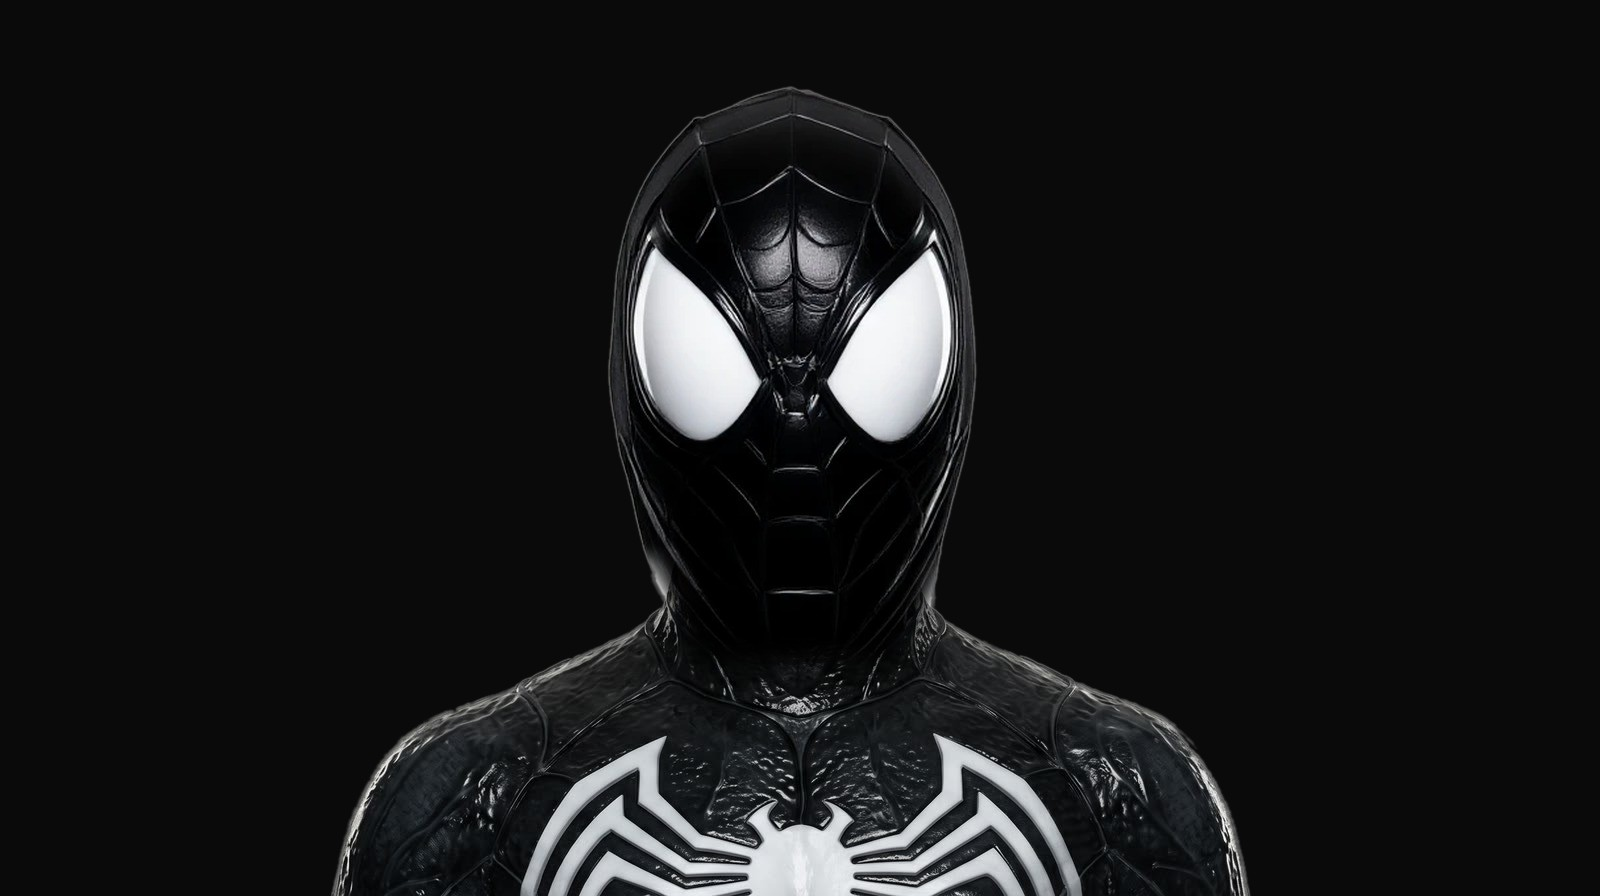
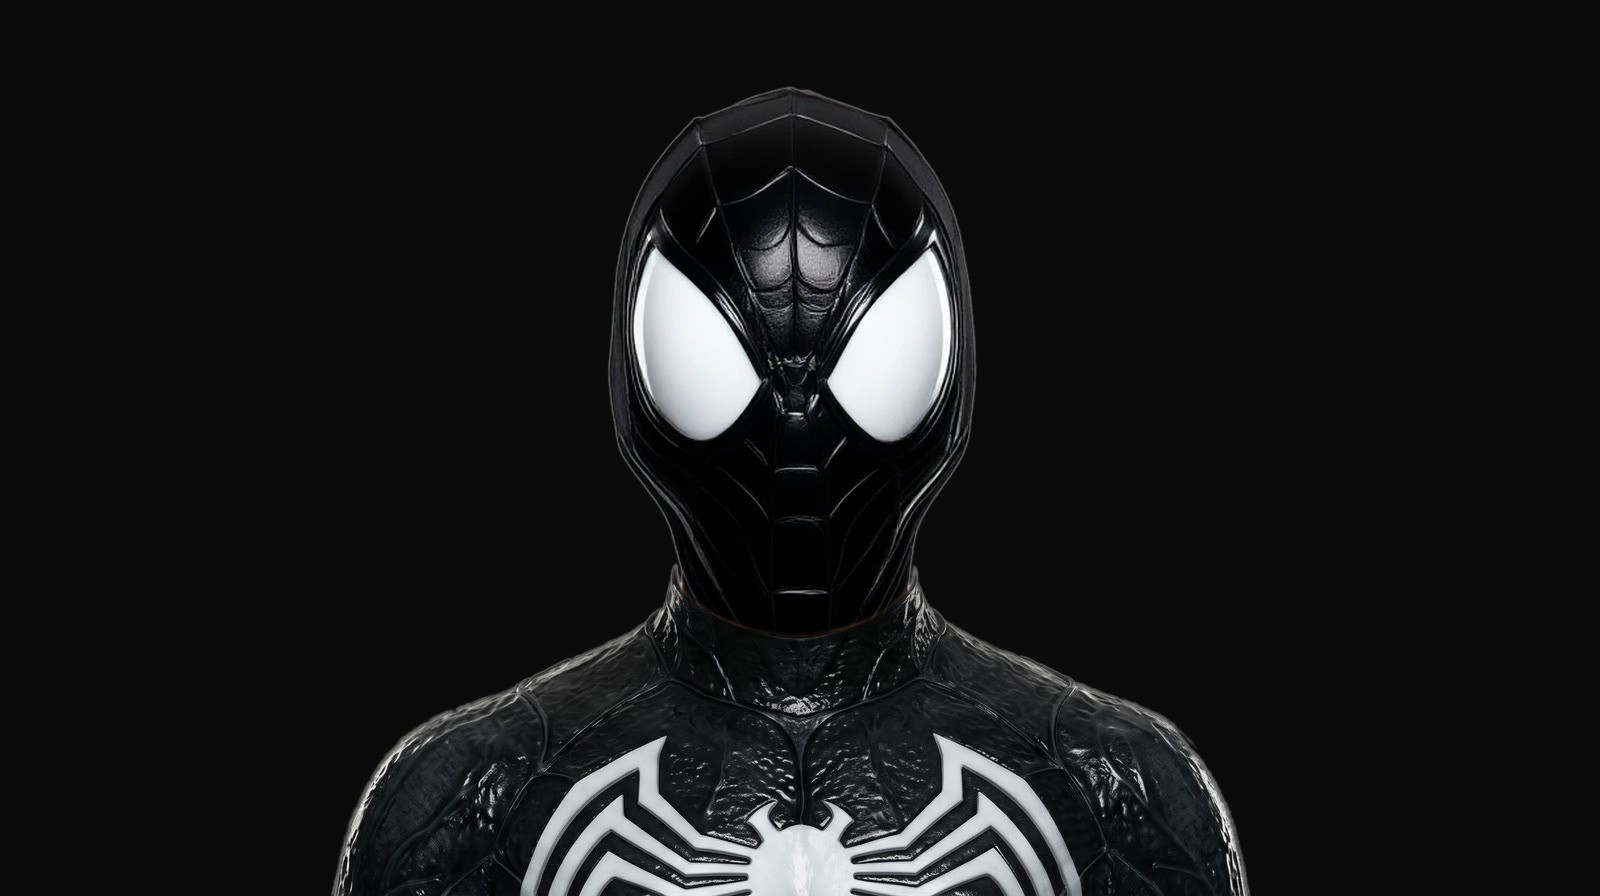
Hero neck follows the collar; sturdier easter egg keys
head-swap.py now stretches the masked neck to the real neck's width and seams it along the
face shot's collar, so no white notches or narrow neck column. Easter eggs listen in the
capture phase, survive odd key events and silent audio failures, and accept spidez (QWERTZ).

Changed region(s): [[0.5312, 0.5, 0.625, 0.7188], [0.375, 0.5, 0.4375, 0.6875]]

diff --git a/src/sound.ts b/src/sound.ts
@@ -7,14 +7,19 @@ let ctx: AudioContext | null = null
 let master: GainNode | null = null
 
 function audio() {
-  if (!ctx) {
-    ctx = new AudioContext()
-    master = ctx.createGain()
-    master.gain.value = 0.35
-    master.connect(ctx.destination)
+  try {
+    if (!ctx) {
+      ctx = new AudioContext()
+      master = ctx.createGain()
+      master.gain.value = 0.35
+      master.connect(ctx.destination)
+    }
+    if (ctx.state === 'suspended') void ctx.resume()
+    return { c: ctx, out: master! }
+  } catch {
+    // No audio device, or the browser refuses: the site just stays silent instead of breaking the click.
+    return null
   }
-  if (ctx.state === 'suspended') void ctx.resume()
-  return { c: ctx, out: master! }
 }
 
 // ── mute switch (remembered) ────────────────────────────────────────────────
@@ -70,7 +75,9 @@ function envelope(c: AudioContext, t: number, peak: number, attack: number, rele
 /** "Thwip!": a hiss of web fluid swept down through a band-pass, plus a quick zip. */
 export function playThwip() {
   if (muted) return
-  const { c, out } = audio()
+  const a = audio()
+  if (!a) return
+  const { c, out } = a
   const t = c.currentTime
 
   const hiss = noise(c, 0.25)
@@ -95,7 +102,9 @@ export function playThwip() {
 /** The symbiote: a low growl that sinks when it takes over and rises when it lets go. */
 export function playSymbiote(takingOver: boolean) {
   if (muted) return
-  const { c, out } = audio()
+  const a = audio()
+  if (!a) return
+  const { c, out } = a
   const t = c.currentTime
 
   const low = c.createBiquadFilter()
@@ -128,7 +137,9 @@ export function playSymbiote(takingOver: boolean) {
 /** A whoosh that rises and falls, for Spider-Man swinging past. */
 export function playSwoosh(seconds = 2.2) {
   if (muted) return
-  const { c, out } = audio()
+  const a = audio()
+  if (!a) return
+  const { c, out } = a
   const t = c.currentTime
   const air = noise(c, seconds)
   const band = c.createBiquadFilter()

diff --git a/src/components/EasterEggs.tsx b/src/components/EasterEggs.tsx
@@ -25,9 +25,12 @@ export function EasterEggs() {
 
   useEffect(() => {
     const onKey = (e: KeyboardEvent) => {
-      if ((e.target as HTMLElement).closest('input, textarea, select, [contenteditable]')) return
+      if (e.target instanceof Element && e.target.closest('input, textarea, select, [contenteditable]')) return
+      if (e.ctrlKey || e.metaKey) return
       const s = live.current
-      const key = e.key.length === 1 ? e.key.toLowerCase() : e.key
+      // Some keyboards/IMEs report letters as "Unidentified" or "Process"; the physical key still names it.
+      const fromCode = /^Key[A-Z]$/.test(e.code) ? e.code.slice(3).toLowerCase() : e.key
+      const key = e.key.length === 1 ? e.key.toLowerCase() : e.key === 'Unidentified' || e.key === 'Process' ? fromCode : e.key
       s.keys = [...s.keys, key].slice(-KONAMI.length)
       const swingNow = () => {
         setSwing((n) => n + 1)
@@ -40,7 +43,8 @@ export function EasterEggs() {
       }
       if (key.length === 1) {
         s.typed = (s.typed + key).slice(-6)
-        if (s.typed.endsWith('spidey')) {
+        // "spidez": a Czech QWERTZ layout on a keyboard printed QWERTY swaps Y and Z.
+        if (s.typed.endsWith('spidey') || s.typed.endsWith('spidez')) {
           s.typed = ''
           swingNow()
         }
@@ -52,8 +56,9 @@ export function EasterEggs() {
         }
       }
     }
-    window.addEventListener('keydown', onKey)
-    return () => window.removeEventListener('keydown', onKey)
+    // Capture phase: nothing on the page (or a player/widget script) can swallow the keys first.
+    window.addEventListener('keydown', onKey, true)
+    return () => window.removeEventListener('keydown', onKey, true)
   }, [])
 
   return (

diff --git a/scripts/head-swap.py b/scripts/head-swap.py
@@ -1,8 +1,13 @@
 """Build the hero's masked layer from the face shot's body plus only the head of the masked shot.
 
 Two AI renders never agree on the suit: the masked one had a longer neck and lower shoulders, so the
-body jumped when the cursor peeled the mask off. Taking everything below the chin from the face shot
-makes the two layers identical except for the head, like the original site's pair.
+body jumped when the cursor peeled the mask off. Taking the whole suit from the face shot makes the
+two layers identical except for the head, like the original site's pair.
+
+The seam follows the face shot's collar: everything above the collar line comes from the masked shot,
+everything from the collar down from the face shot. The masked neck is first stretched (or squeezed)
+sideways to the real neck's width, so it fills the collar opening exactly instead of leaving white
+notches beside it or overhanging it.
 
     python scripts/head-swap.py FACE MASK_SRC OUT --scale 1.0 --dx -16 --dy 56
 
@@ -23,10 +28,10 @@ ap.add_argument("out")
 ap.add_argument("--scale", type=float, default=1.0)
 ap.add_argument("--dx", type=int, default=0)
 ap.add_argument("--dy", type=int, default=0)
-ap.add_argument("--head-bottom", type=int, default=560, help="above this row the mask is used across the full width")
-ap.add_argument("--neck-bottom", type=int, default=660, help="the mask's neck column ends here, inside the face shot's collar")
-ap.add_argument("--neck", type=int, nargs=2, default=[650, 950], help="x range of the neck column at --head-bottom")
-ap.add_argument("--neck-end", type=int, nargs=2, default=[705, 895], help="x range at --neck-bottom (tapers so the mask's shoulder flare isn't clipped into bumps)")
+ap.add_argument("--neck-row", type=int, default=552, help="a row through the neck just above the collar, where both necks are measured")
+ap.add_argument("--warp-from", type=int, default=440, help="the neck warp fades in from this row (the head above stays untouched)")
+ap.add_argument("--chest-row", type=int, default=660, help="a row that is suit across the neck in the face shot; the collar is found by scanning up from it")
+ap.add_argument("--debug", help="also write the blend weight here")
 args = ap.parse_args()
 
 W, H = 1600, 896
@@ -34,24 +39,88 @@ face = Image.open(args.face).convert("RGB").resize((W, H), Image.LANCZOS)
 src = Image.open(args.mask_src).convert("RGB")
 w = round(W * args.scale)
 h = round(src.height * W / src.width * args.scale)
-mask = Image.new("RGB", (W, H), src.getpixel((5, 5)))
-mask.paste(src.resize((w, h), Image.LANCZOS), (args.dx, args.dy))
+canvas = Image.new("RGB", (W, H), src.getpixel((5, 5)))
+canvas.paste(src.resize((w, h), Image.LANCZOS), (args.dx, args.dy))
 
 # The renders' "white" studio backgrounds differ slightly; match them so the seam doesn't show.
-mask_bg = np.asarray(mask, np.float32)[5:40, 5:40].reshape(-1, 3).mean(0)
-face_bg = np.asarray(face, np.float32)[5:40, 5:40].reshape(-1, 3).mean(0)
-mask = Image.fromarray(np.clip(np.asarray(mask, np.float32) * (face_bg / mask_bg), 0, 255).astype(np.uint8))
+mask = np.asarray(canvas, np.float32)
+face = np.asarray(face, np.float32)
+mask = np.clip(mask * (face[5:40, 5:40].reshape(-1, 3).mean(0) / mask[5:40, 5:40].reshape(-1, 3).mean(0)), 0, 255)
 
-# 1 = take the masked shot (head, plus a neck column down into the collar), 0 = keep the face shot.
-weight = np.zeros((H, W), np.float32)
-weight[: args.head_bottom] = 1
-for y in range(args.head_bottom, args.neck_bottom):
-    t = (y - args.head_bottom) / (args.neck_bottom - args.head_bottom)
-    left = round(args.neck[0] + (args.neck_end[0] - args.neck[0]) * t)
-    right = round(args.neck[1] + (args.neck_end[1] - args.neck[1]) * t)
-    weight[y, left:right] = 1
-weight = ndimage.gaussian_filter(weight, sigma=10)[..., None]
+bg_colour = face[5:40, 5:40].reshape(-1, 3).mean(0)
 
-out = np.asarray(mask, np.float32) * weight + np.asarray(face, np.float32) * (1 - weight)
+
+def is_bg(img):
+    return np.abs(img - bg_colour).max(-1) < 28
+
+
+def neck_edges(img, row):
+    """Left and right edge of the neck (the non-background run through the canvas centre) around `row`."""
+    lefts, rights = [], []
+    for y in range(row - 6, row + 7):
+        solid = ~is_bg(img[y])
+        c = W // 2
+        l = c
+        while l > 0 and solid[l - 1]:
+            l -= 1
+        r = c
+        while r < W - 1 and solid[r + 1]:
+            r += 1
+        lefts.append(l)
+        rights.append(r)
+    return float(np.median(lefts)), float(np.median(rights))
+
+
+# 1. Stretch the masked neck to the real neck's width. Rows above --warp-from are left alone, then the
+#    warp eases in so the head's lower half widens smoothly instead of kinking.
+mL, mR = neck_edges(mask, args.neck_row)
+fL, fR = neck_edges(face, args.neck_row)
+xs = np.arange(W, dtype=np.float32)
+warped = mask.copy()
+for y in range(args.warp_from, H):
+    t = min(1.0, (y - args.warp_from) / max(1, args.neck_row - 20 - args.warp_from))
+    t = t * t * (3 - 2 * t)
+    dst = [0, fL * t + mL * (1 - t), fR * t + mR * (1 - t), W - 1]
+    src_x = np.interp(xs, dst, [0, mL, mR, W - 1])
+    for c in range(3):
+        warped[y, :, c] = np.interp(src_x, xs, mask[y, :, c])
+mask = warped
+
+# 2. Find the face shot's collar: scan up each column from the chest until the suit gives way to skin
+#    (or background). Going by the green/red ratio holds up in the shadow under the chin too: skin sits
+#    around 0.4-0.75, the red suit below 0.3 and the black suit near 1.
+r, g = face[..., 0], face[..., 1]
+skin = (r > 25) & (g > r * 0.35) & (g < r * 0.8) & ~is_bg(face)
+suit = ~skin & ~is_bg(face)
+collar = np.full(W, args.chest_row)
+for x in range(W):
+    if not suit[args.chest_row, x]:
+        continue
+    y, gap = args.chest_row, 0
+    top = y
+    while y > 0 and gap < 4:
+        y -= 1
+        if suit[y, x]:
+            top, gap = y, 0
+        else:
+            gap += 1
+    collar[x] = top
+
+# Beside the neck both shots are background above their shoulders, so the seam can drop to whichever
+# shoulder starts higher; that way neither shot's shoulder is ever cut off by the other's backdrop.
+first_solid = lambda img, x: next((y for y in range(args.neck_row, H) if not is_bg(img[y, x])), H)
+for x in range(W):
+    if round(fL) - 4 <= x <= round(fR) + 4:
+        continue
+    # A few rows of margin so the blur below doesn't smear the higher shoulder's edge into a halo.
+    collar[x] = min(collar[x], first_solid(face, x), first_solid(mask, x)) - 6
+collar = ndimage.median_filter(collar, size=9)
+
+# 3. Above the collar line: masked shot. From it down: face shot.
+weight = (np.arange(H)[:, None] < collar[None, :]).astype(np.float32)
+weight = ndimage.gaussian_filter(weight, sigma=2.5)[..., None]
+out = mask * weight + face * (1 - weight)
 Image.fromarray(out.round().astype(np.uint8)).save(args.out, quality=92)
-print(f"{args.out}: head from {args.mask_src.split('/')[-1]}, body from {args.face.split('/')[-1]}")
+if args.debug:
+    Image.fromarray((weight[..., 0] * 255).astype(np.uint8)).save(args.debug)
+print(f"{args.out}: neck {mL:.0f}-{mR:.0f} -> {fL:.0f}-{fR:.0f}, collar centre at row {collar[W // 2]}")
